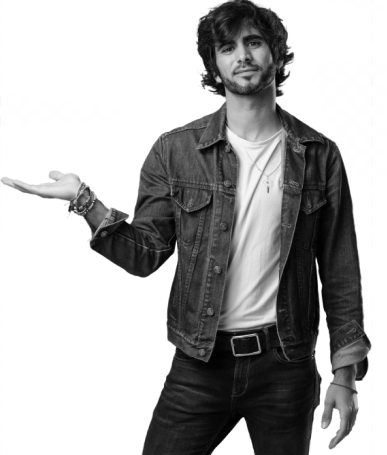
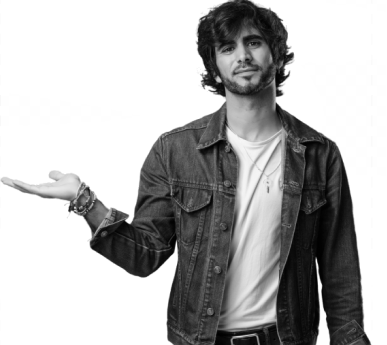
team section

diff --git a/style.css b/style.css
@@ -205,23 +205,30 @@ nav{
 }
 
 .team{
-    border: 1px solid red;
     padding: 30px 15vw;
     display: flex;
     justify-content: space-around;
 }
 
-.card__background{
+.card__wrapper{
     width: 24vw;
+}
+.card__background{
+    height: 400px;
+    width: 100%;
 
     display: flex;
     justify-content: center;
     position: relative;
 }
+.card__photo{
+    position: absolute;
+    bottom: 0;
+}
 .box__background{
     display: block;
-    width: 24vw;
-    height: 20vw;
+    width: 100%;
+    height: 270px;
     background-color: #008377;
     position: absolute;
     bottom: 0;
@@ -269,14 +276,29 @@ nav{
 
 .facebookIcon{
     background-color: #011627;
-    /* text-decoration: none; */
 }
 .instagramIcon{
     background-color: #FF3366;
-    /* text-decoration: none; */
 }
 
 @media screen and (max-width: 1500px){
+}
+@media screen and (max-width: 1350px) {
+    .team {
+        display: grid;
+        grid-template-columns: repeat(auto-fill, minmax(380px, auto));
+        gap: 10px;
+        box-sizing: border-box;
+        padding: 30px 15vw;
+        width: 100%;
+        justify-content: center;
+        align-content: center;
+    }
+    
+    .card__wrapper{
+        width: 380px;
+        overflow: hidden;
+    }
 }
 @media screen and (max-width: 1024px) {
     .cards__wrapper{
@@ -371,5 +393,16 @@ nav{
     }
     .aboutUs{
         padding-bottom: 75px;
+    }
+
+    .team {
+        display: flex;
+        flex-direction: column;
+        align-items: center;
+    }
+}
+@media screen and (max-width: 500px) {
+    .card__wrapper{
+        width: 90%;
     }
 }

diff --git a/index.html b/index.html
@@ -90,7 +90,7 @@
     <section id="team" class="team">
         <div class="card__wrapper">
             <div class="card__background">
-                <img src="/img/Bez ndddazwy.png" alt="">
+                <img class="card__photo" src="/img/Bez ndddazwy.png" alt="">
                 <div class="box__background"></div>
             </div>
             <div class="card__info">
@@ -112,7 +112,7 @@
 
         <div class="card__wrapper">
             <div class="card__background">
-                <img src="/img/Bez nadsadsaasddasdasdsazwy.png" alt="">
+                <img class="card__photo" src="/img/Bez nadsadsaasddasdasdsazwy.png" alt="">
                 <div class="box__background"></div>
             </div>
             <div class="card__info">
@@ -134,7 +134,7 @@
 
         <div class="card__wrapper">
             <div class="card__background">
-                <img src="/img/Bez nadsadsaasddasdasdsazwy 1.png" alt="">
+                <img class="card__photo" src="/img/Bez nadsadsaasddasdasdsazwy 1.png" alt="">
                 <div class="box__background"></div>
             </div>
             <div class="card__info">
